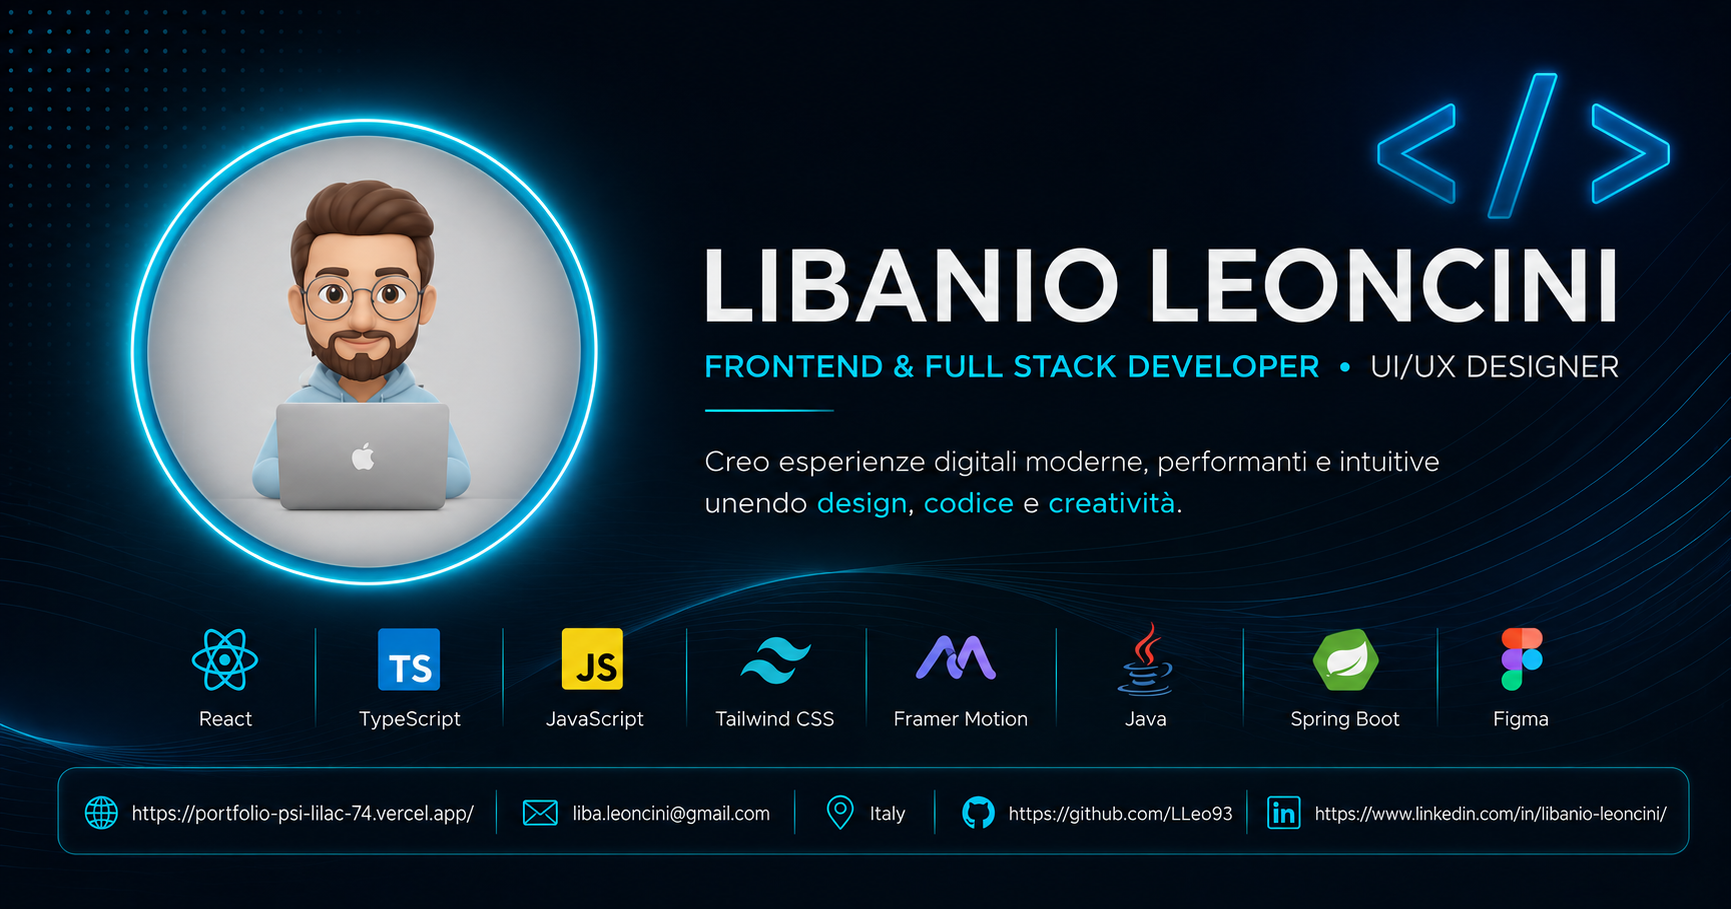
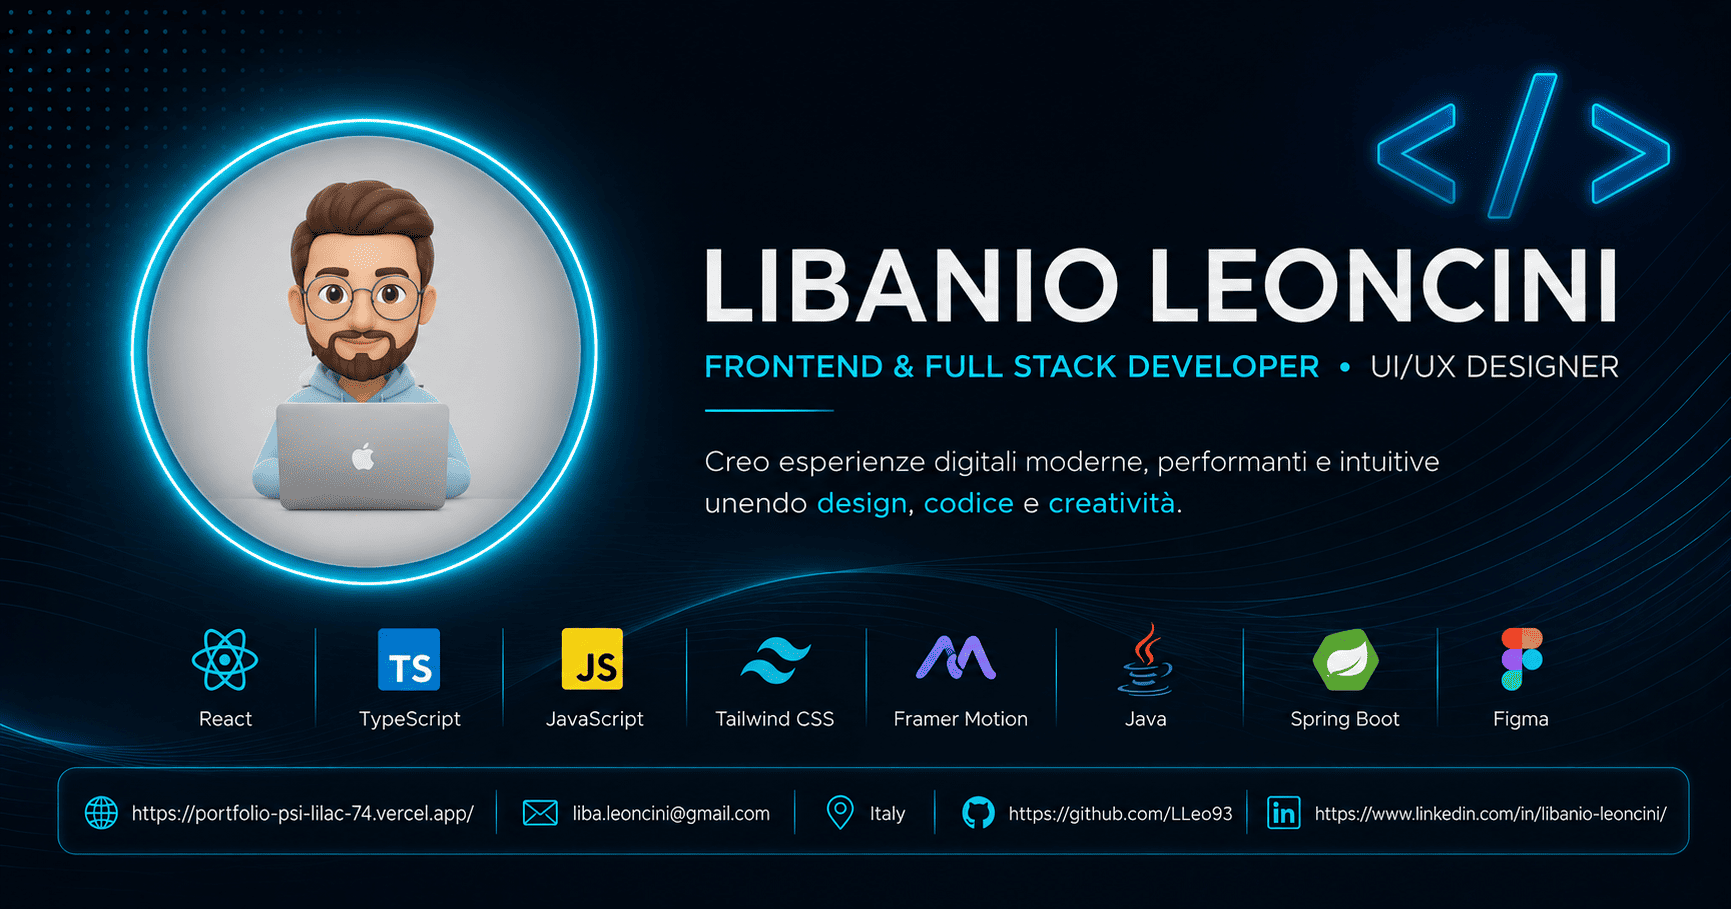
riduzione immagini e descrizioni per social

diff --git a/index.html b/index.html
@@ -24,10 +24,16 @@
     <title>
       Libanio Leoncini | Frontend & Full Stack Developer • UI/UX Designer
     </title>
+    <meta name="author" content="Libanio Leoncini" />
 
     <meta
+      name="keywords"
+      content="Libanio Leoncini, Frontend Developer, Full Stack Developer, React, TypeScript, Java, Spring Boot, UI UX Designer, Portfolio"
+    />
+    <link rel="canonical" href="https://portfolio-psi-lilac-74.vercel.app/" />
+    <meta
       name="description"
-      content="Portfolio di Libanio Leoncini — Frontend & Full Stack Developer e UI/UX Designer specializzato in React, TypeScript, Java, Spring Boot, animazioni moderne ed esperienze web responsive."
+      content="Portfolio di Libanio Leoncini — Full Stack Developer e UI/UX Designer specializzato in React, TypeScript, Java, Spring Boot, animazioni moderne ed esperienze web responsive."
     />
 
     <meta name="robots" content="index, follow" />
@@ -36,6 +42,8 @@
 
     <!-- Open Graph -->
     <meta property="og:type" content="website" />
+    <meta property="og:site_name" content="Libanio Leoncini Portfolio" />
+    <meta property="og:locale" content="it_IT" />
 
     <meta
       property="og:url"
@@ -44,7 +52,7 @@
 
     <meta
       property="og:title"
-      content="Libanio Leoncini | Frontend & Full Stack Developer • UI/UX Designer"
+      content="Libanio Leoncini | Full Stack Developer & UI/UX Designer"
     />
 
     <meta
